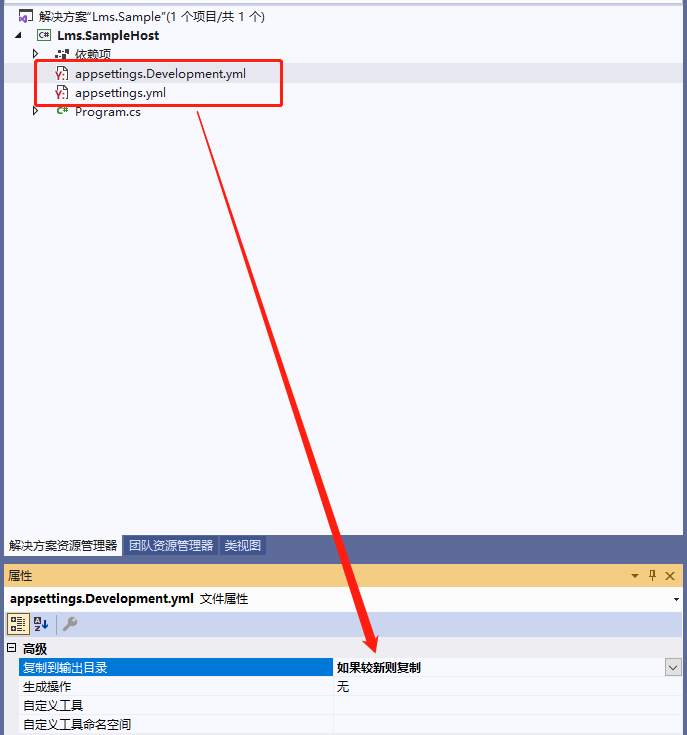
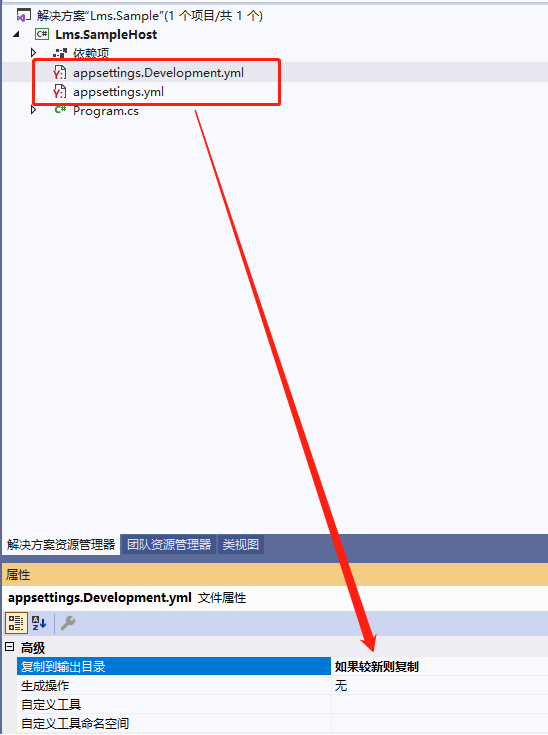
更新startup文档

diff --git a/docs/lms/dev-docs/quick-start.md b/docs/lms/dev-docs/quick-start.md
@@ -19,15 +19,15 @@ lang: zh-cn
 
 ### 构建业务微服务模块主机
 
-1. 新增一个控制台应用
+**1. 新增一个控制台应用**
 
 ![quick-start1.png](/assets/imgs/quick-start1.png)
 
-2. 使用nuget安装`Silky.Lms.NormHost`包
+**2. 使用nuget安装`Silky.Lms.NormHost`包**
 
 ![quick-start2.png](/assets/imgs/quick-start2.png)
 
-3. 在Main方法中构建泛型主机并注册Lms服务,指定启动模块
+**3. 在`Main`方法中构建泛型主机并注册Lms服务,指定启动模块**
 
 ```csharp
 namespace Lms.SampleHost
@@ -51,11 +51,11 @@ namespace Lms.SampleHost
 }
 ```
 
-4. 新增配置文件
+**4. 新增配置文件**
 
 lms支持通过`json`或是`yml`格式进行配置。您可以通过`appsettings.yml`为公共配置项指定配置信息,也可以通过新增`appsettings.${ENVIRONMENT}.yml`文件为指定的环境配置信息。
 
-一般地,您必须要指定rpc通信的token,服务注册中心地址,分布式锁服务地址,数据库连接等配置项。如果您使用redis作为缓存服务,那么您还需要将`distributedCache.redis.isEnabled`配置项设置为`true`,并给出redis服务缓存的地址。
+一般地,您必须要指定rpc通信的`token`,服务注册中心地址,分布式锁服务地址,数据库连接等配置项。如果您使用redis作为缓存服务,那么您还需要将`distributedCache.redis.isEnabled`配置项设置为`true`,并给出redis服务缓存的地址。
 
 配置信息如下所示:
 
@@ -103,7 +103,112 @@ connectionStrings:
 
 ![quick-start6.png](/assets/imgs/quick-start6.png)
 
+应用层如果使用分布式事务的话,那么还需要对`Silky.Lms.Transaction.Tcc`包引用。
+
+![quick-start6.1.png](/assets/imgs/quick-start6.1.png)
+
 
 至此,一个普通的业务微服务模块就创建成功了,您可以通过引用该微服务的应用接口层的项目或是将其打包成nuget包,将其(应用接口层项目)安装到其他微服务模块,这样,其他微服务模块就可以通过应用接口生成的代理通过rpc与该服务模块进行通信。
 
 ## 使用web主机托管网关应用
+
+**1. 新建一个web应用**
+
+![quick-start7.png](/assets/imgs/quick-start7.png)
+
+**2. 使用nuget安装`Silky.Lms.WebHost`包**
+
+![quick-start8.png](/assets/imgs/quick-start8.png)
+
+**3. 在`Main`方法中构建Web主机并注册Lms服务,指定启动模块和`Startup`**
+
+```csharp
+namespace Lms.Sample.Gateway
+{
+    using Microsoft.AspNetCore.Hosting;
+    using Microsoft.Extensions.Hosting;
+    public class Program
+    {
+        public static void Main(string[] args)
+        {
+            CreateHostBuilder(args).Build().Run();
+        }
+
+        public static IHostBuilder CreateHostBuilder(string[] args) =>
+            Host.CreateDefaultBuilder(args)
+                .RegisterLmsServices<WebHostModule>()
+                .ConfigureWebHostDefaults(webBuilder =>
+                {
+                    webBuilder.UseStartup<Startup>();
+                });
+    }
+}
+```
+
+**4. 在`Startup`中配置swagger文档以及设置使用lms请求管道**
+
+```csharp
+
+// 服务配置;注册Swagger文档服务
+public void ConfigureServices(IServiceCollection services)
+{
+    services.AddSwaggerGen(c =>
+    {
+        c.SwaggerDoc("v1", new OpenApiInfo { Title = "Lms Gateway", Version = "v1" });
+        c.MultipleServiceKey();
+        var applicationAssemblies = EngineContext.Current.TypeFinder.GetAssemblies()
+            .Where(p => p.FullName.Contains("Application") || p.FullName.Contains("Domain"));
+        foreach (var applicationAssembly in applicationAssemblies)
+        {
+            var xmlFile = $"{applicationAssembly.GetName().Name}.xml";
+            var xmlPath = Path.Combine(AppContext.BaseDirectory, xmlFile);
+            if (File.Exists(xmlPath))
+            {
+                c.IncludeXmlComments(xmlPath);
+            }
+        }
+    });
+}
+
+//中间件配置;配置swagger文档中间件、以及配置启用lms请求管道
+public void Configure(IApplicationBuilder app, IWebHostEnvironment env)
+{
+    if (env.IsDevelopment() || env.EnvironmentName == "ContainerDev")
+    {
+        app.UseDeveloperExceptionPage();
+        app.UseSwagger();
+        app.UseSwaggerUI(c => c.SwaggerEndpoint("/swagger/v1/swagger.json", "Lms Gateway Demo v1"));
+    }
+    app.ConfigureLmsRequestPipeline(); // 会自动使用配置了的lms中间件
+}
+
+```
+
+
+**4. 新增配置文件**
+
+一般地,您必须要网关项目中指定rpc通信的`token`,服务注册中心地址,分布式锁服务地址。如果您使用redis作为缓存服务,那么您还需要将`distributedCache.redis.isEnabled`配置项设置为`true`,并给出redis服务缓存的地址。
+
+一个典型的网关服务配置如下所示:
+
+```yaml
+rpc:
+  token: ypjdYOzNd4FwENJiEARMLWwK0v7QUHPW
+registrycenter:
+  connectionStrings: 127.0.0.1:2181,127.0.0.1:2182,127.0.0.1:2183;127.0.0.1:2184,127.0.0.1:2185,127.0.0.1:2186
+  registryCenterType: Zookeeper
+distributedCache:
+  redis:
+    isEnabled: true
+    configuration: 127.0.0.1:6379,defaultDatabase=0
+lock:
+  lockRedisConnection: 127.0.0.1:6379,defaultDatabase=1
+```
+
+**5. 引用其他微服务模块的应用接口层**
+
+开发者可以选择通过nuget包的方式或是直接项目引用的方式来使用其他微服务模块的应用接口层。**http请求**到达网关后,就可以根据指定的应用接口生成代理与集群内部进行通信。
+
+![quick-start9.png](/assets/imgs/quick-start9.png)
+
+接下来,您就可以在各个微服务模块中的应用接口层定义服务接口,并实现相应的业务逻辑。
